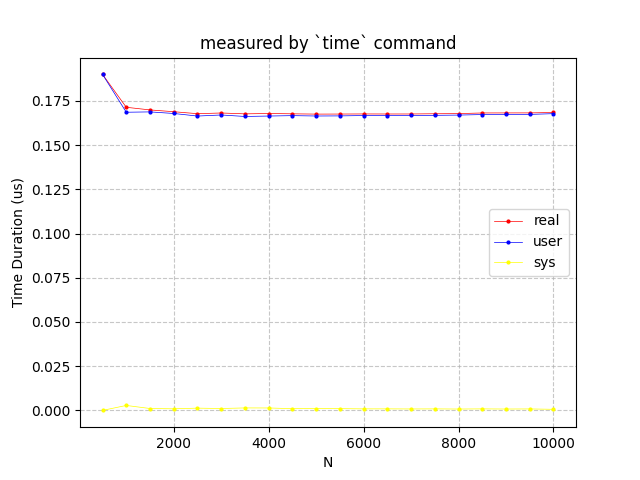
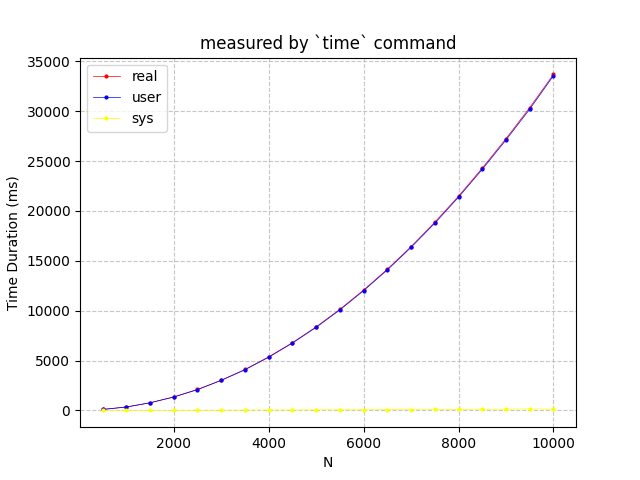
fix time_result picture

diff --git a/CS7331-master/code_samples/perf/task_3/time/analysis_time_result.py b/CS7331-master/code_samples/perf/task_3/time/analysis_time_result.py
@@ -30,17 +30,17 @@ for i in range(arg_try_times):
             for line in file:
                 if line.startswith('real'):
                     real_time = convert_to_seconds(line.split()[1])
-                    real_times[i].append(real_time/flops)
+                    real_times[i].append(real_time)
                 elif line.startswith('user'):
                     user_time = convert_to_seconds(line.split()[1])
-                    user_times[i].append(user_time/flops)
+                    user_times[i].append(user_time)
                 elif line.startswith('sys'):
                     sys_time = convert_to_seconds(line.split()[1])
-                    sys_times[i].append(sys_time/flops)
+                    sys_times[i].append(sys_time)
 
-real_mean = np.mean(real_times, axis=1)*1000*1000
-user_mean = np.mean(user_times, axis=1)*1000*1000
-sys_mean = np.mean(sys_times, axis=1)*1000*1000
+real_mean = np.mean(real_times, axis=1)*1000
+user_mean = np.mean(user_times, axis=1)*1000
+sys_mean = np.mean(sys_times, axis=1)*1000
 
 
 n_values = np.arange(500, 10001, 500)
@@ -52,7 +52,7 @@ plt.plot(n_values, sys_mean, marker='o', linestyle='-', color='yellow', label='s
 
 # 设置坐标轴标签和标题
 plt.xlabel('N')
-plt.ylabel('Time Duration (us)')
+plt.ylabel('Time Duration (ms)')
 plt.title('measured by `time` command')
 
 # 添加网格线
@@ -62,5 +62,5 @@ plt.grid(True, linestyle='--', alpha=0.7)
 plt.legend()
 
 # 显示图形
-plt.savefig(os.path.join(root_dir,f"result_per_flop.png"))
+plt.savefig(os.path.join(root_dir,f"time_result.png"))
 # name = r"$\bar{x}$"
